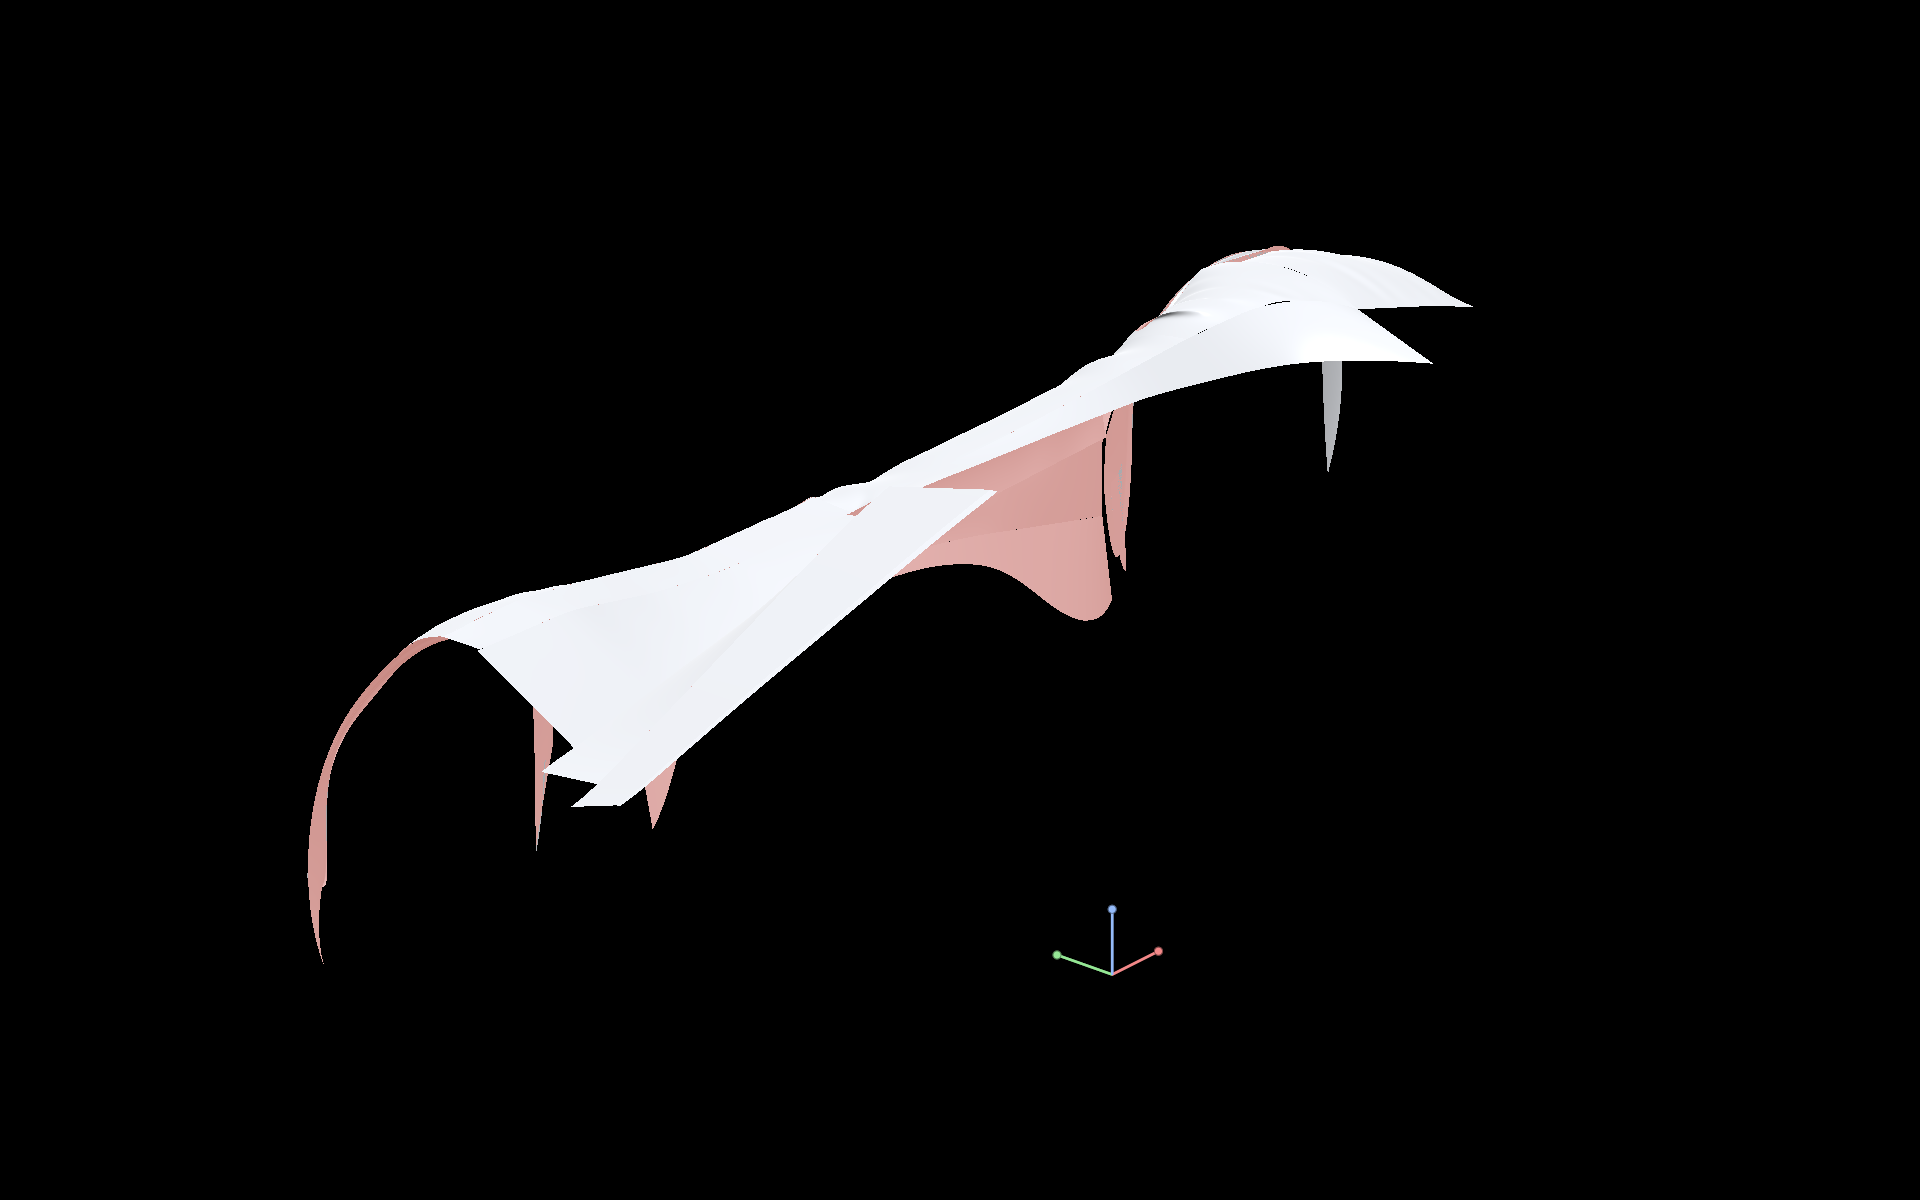
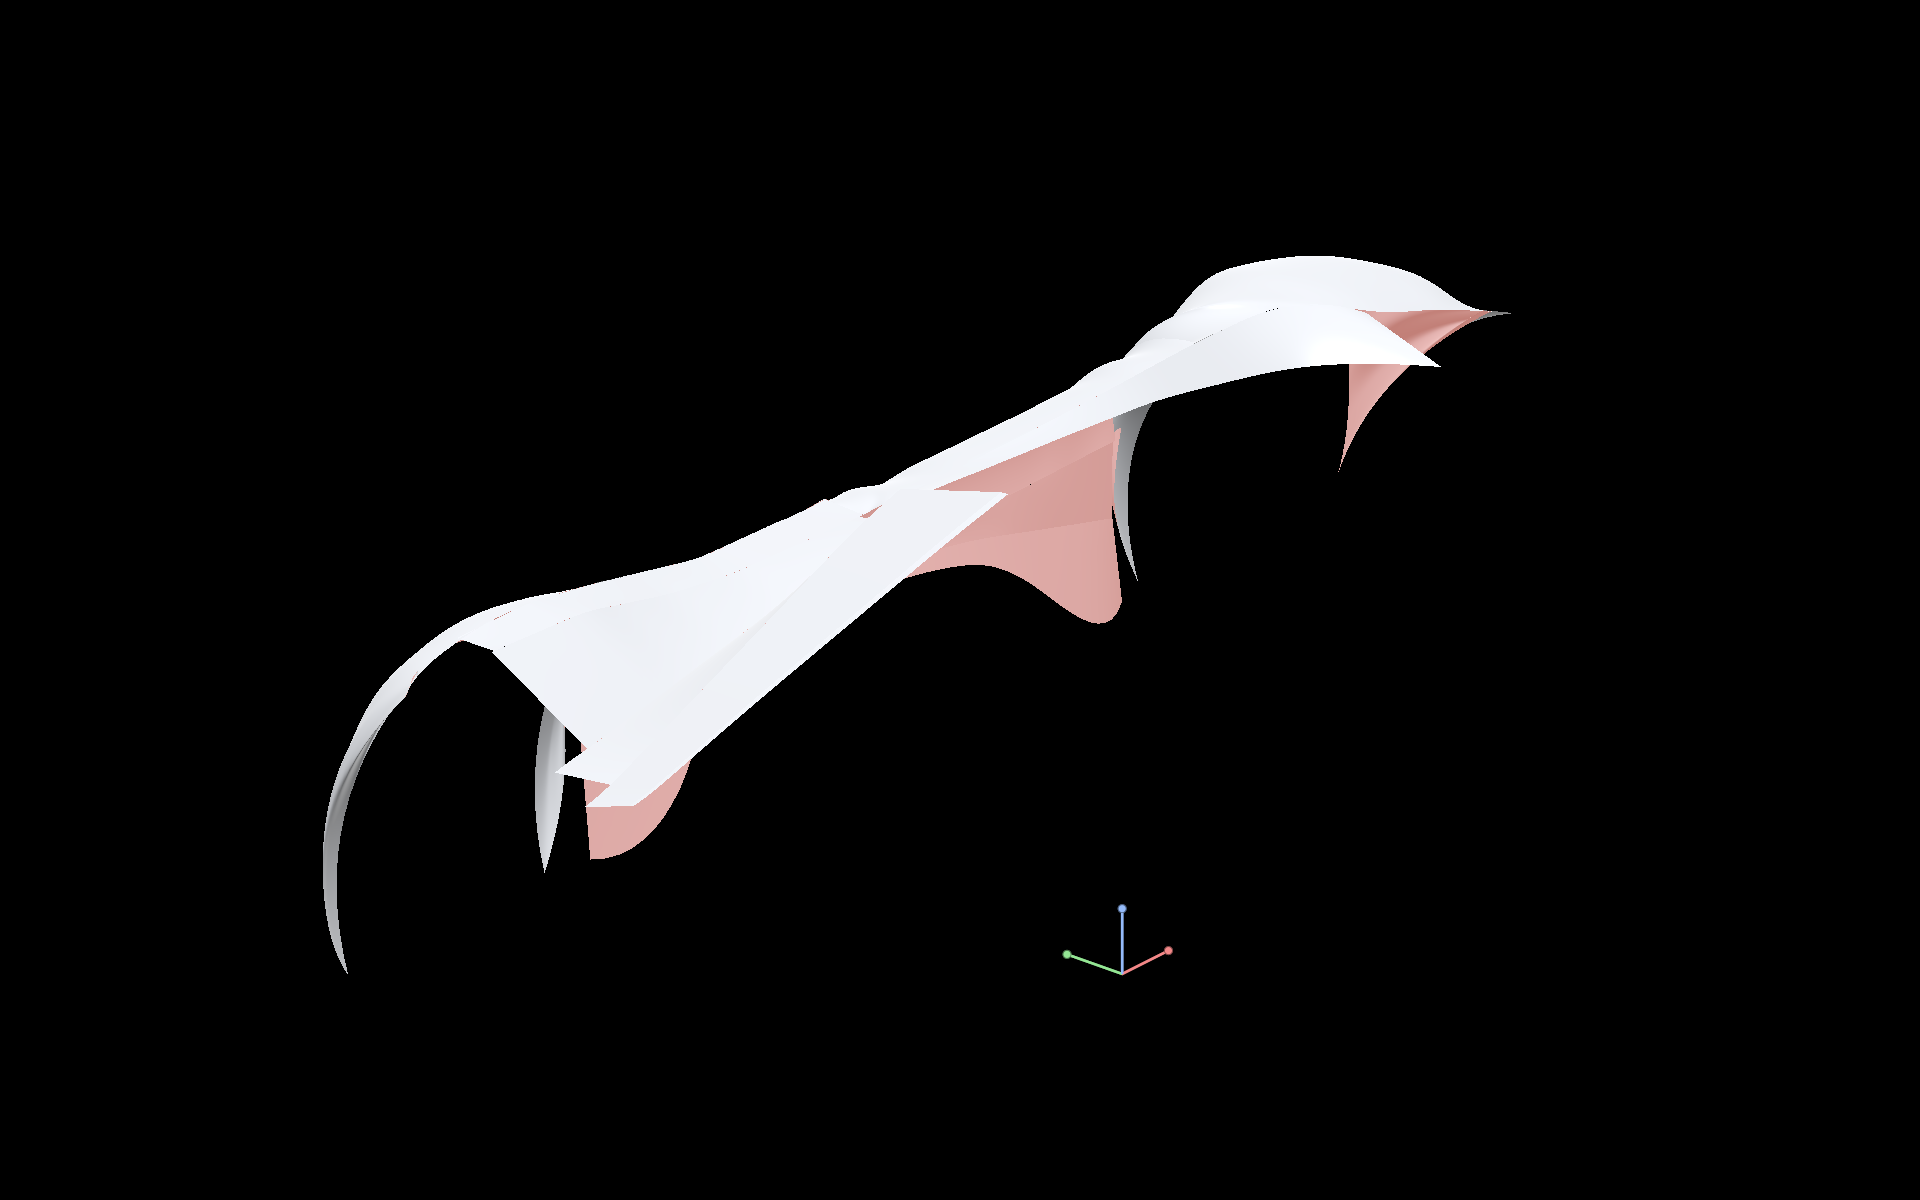
Liger side: one panel per wheel arch (cut lines no longer loft rails)

diff --git a/Vehicles/tools/loft_side.py b/Vehicles/tools/loft_side.py
@@ -31,6 +31,13 @@ def half(P): return P[P[:, 1] > -2]                              # +Y part of a 
 def by_x(P, x0, x1):
     o = np.argsort(P[:, 0]); P = P[o]; xs = np.linspace(x0, x1, N)
     return np.c_[xs, np.interp(xs, P[:, 0], P[:, 1]), np.interp(xs, P[:, 0], P[:, 2])]
+def cat(*Ps):                                                    # join curves end-to-end, sorted by x
+    P = np.vstack(Ps); return P[np.argsort(P[:, 0])]
+def arch(P):
+    """wheel-arch opening: order rear foot -> over the top -> front foot (arc-length param)."""
+    d = np.r_[0, np.cumsum(np.linalg.norm(np.diff(P, axis=0), axis=1))]
+    if P[0, 0] > P[-1, 0]: P = P[::-1]
+    return P
 def by_s(P):
     d = np.r_[0, np.cumsum(np.linalg.norm(np.diff(P, axis=0), axis=1))]; t = np.linspace(0, d[-1], N)
     return np.c_[[np.interp(t, d, P[:, k]) for k in range(3)]].T
@@ -43,24 +50,26 @@ PLAN = [
     ('Deck_Outer',     34, 60, 'x'),
     ('Rear_Shoulder',  60, 27, 'x'),
     ('Quarter_Top',    27, 70, 'x'),
-    # rear quarter panel down to the arch and the sill
-    ('Quarter_Flare',  70, 91, 'x'),
-    ('Quarter_Arch',   91, 175, 'x'),
+    # rear quarter panel: quarter line straight down to the rear-arch opening (092 is the panel cut, drawn only)
+    ('Quarter_Panel',  ('h', 76), 175, 'a'),
     ('Quarter_Sill',   70, 29, 'x'),
     # cabin side
     ('Cant_Rail',      ('h', 62), 22, 'x'),
     ('Door_Upper',     22, 63, 'x'),
     ('Door_Lower',     63, 29, 'x'),
-    ('Sill',           29, 173, 'x'),
-    # front fender & nose side
-    ('Fender_Upper',   22, 64, 'x'),
-    ('Fender_Arch',    64, 194, 'x'),
-    ('Nose_Shoulder',  24, 25, 'x'),
-    ('Nose_Arch',      25, 194, 'x'),
+    ('Sill',           29, ('cat', 174, 173), 'x'),
+    # front fender: bonnet edge + bonnet shoulder as one top rail, straight down to the front-arch opening
+    # (064/065 = door/fender cut lines, 026 = flare crease: drawn only, not loft rails)
+    ('Fender_Panel',   ('cat', 22, 24), 194, 'a'),
 ]
 
-def get(i): return half(C(i[1])) if isinstance(i, tuple) else C(i)
-def nm(i): return curves[i[1]]['name'] + '(+Y half)' if isinstance(i, tuple) else curves[i]['name']
+def get(i):
+    if isinstance(i, tuple):
+        return half(C(i[1])) if i[0] == 'h' else cat(*[C(j) for j in i[1:]])
+    return C(i)
+def nm(i):
+    if isinstance(i, tuple): return '+'.join(curves[j]['name'] for j in i[1:]) + ('(+Y half)' if i[0] == 'h' else '')
+    return curves[i]['name']
 
 out = ['# SolidArc native document v1',
        f'# {CAR} — phase 3: +Y side of the main shell, lofted curve-to-curve from the fitted feature curves.',
@@ -73,6 +82,10 @@ for k, (name, a, b, mode) in enumerate(PLAN, 1):
         x0 = max(A[:, 0].min(), B[:, 0].min()); x1 = min(A[:, 0].max(), B[:, 0].max())
         if x1 - x0 < 8: rows.append((name, 'NO OVERLAP')); continue
         SA, SB = by_x(A, x0, x1), by_x(B, x0, x1)
+    elif mode == 'a':                            # A = top rail (by x over the arch's span), B = arch opening (by arc length)
+        B = arch(B); SB = by_s(B)
+        o = np.argsort(A[:, 0]); A = A[o]; xs = np.clip(SB[:, 0], A[0, 0], A[-1, 0])   # rail point above each arch point
+        SA = np.c_[xs, np.interp(xs, A[:, 0], A[:, 1]), np.interp(xs, A[:, 0], A[:, 2])]
     else:
         SA, SB = by_s(A), by_s(B)
         if np.linalg.norm(SA[0]-SB[0]) > np.linalg.norm(SA[0]-SB[-1]): SB = SB[::-1]

diff --git a/Vehicles/Liger/README.md b/Vehicles/Liger/README.md
@@ -81,9 +81,13 @@ and marked as such in the journal.  Section order is chosen so the loft normal a
 | strip | curves | mesh dev mean/max cm |
 |---|---|---|
 | Deck_Step / Ledge / Outer, Rear_Shoulder, Quarter_Top | 076→074→035→061→028→071 | 0.8–1.3 / ≤2.7 |
-| Quarter_Flare, Quarter_Arch, Quarter_Sill | 071→092→Edge_005, 071→030 | 0.9–2.0 / ≤6.1 |
+| Quarter_Panel (rear-window line straight down to the rear-arch opening), Quarter_Sill | 077(+Y)→Edge_005, 071→030 | 2.5 / 9.6, 2.0 / 4.1 |
 | Cant_Rail, Door_Upper, Door_Lower, Sill | 063(+Y)→023→064→030→Edge_003 | 1.1–2.5 / ≤6.8 |
-| Fender_Upper, Fender_Arch, Nose_Shoulder, Nose_Arch | 023→065→Edge_024, 025→026→Edge_024 | 0.9–1.8 / ≤7.2 |
+| Fender_Panel (bonnet edge + shoulder as one rail, straight down to the front-arch opening) | 023+025→Edge_024 | 3.9 / 15.8 |
+
+Review fix: 092 (rear) and 064/065/026 (front) are the panel **cut lines** running around the arches — they are
+drawn but no longer used as loft rails, so each arch is one panel with vertical rulings (rail point above each
+arch point) instead of two overlapping sheets with straight cuts.
 
 Renders `SolidArc/Liger_SideR_01_RearQuarter / 02_Side / 03_FrontQuarter / 04_Top.png`.  Not yet: tail-lamp recess
 (curves 076–096, 171/172), nose face (004/010/019/031, Edge_017), bonnet centre, mirroring, sewing.
